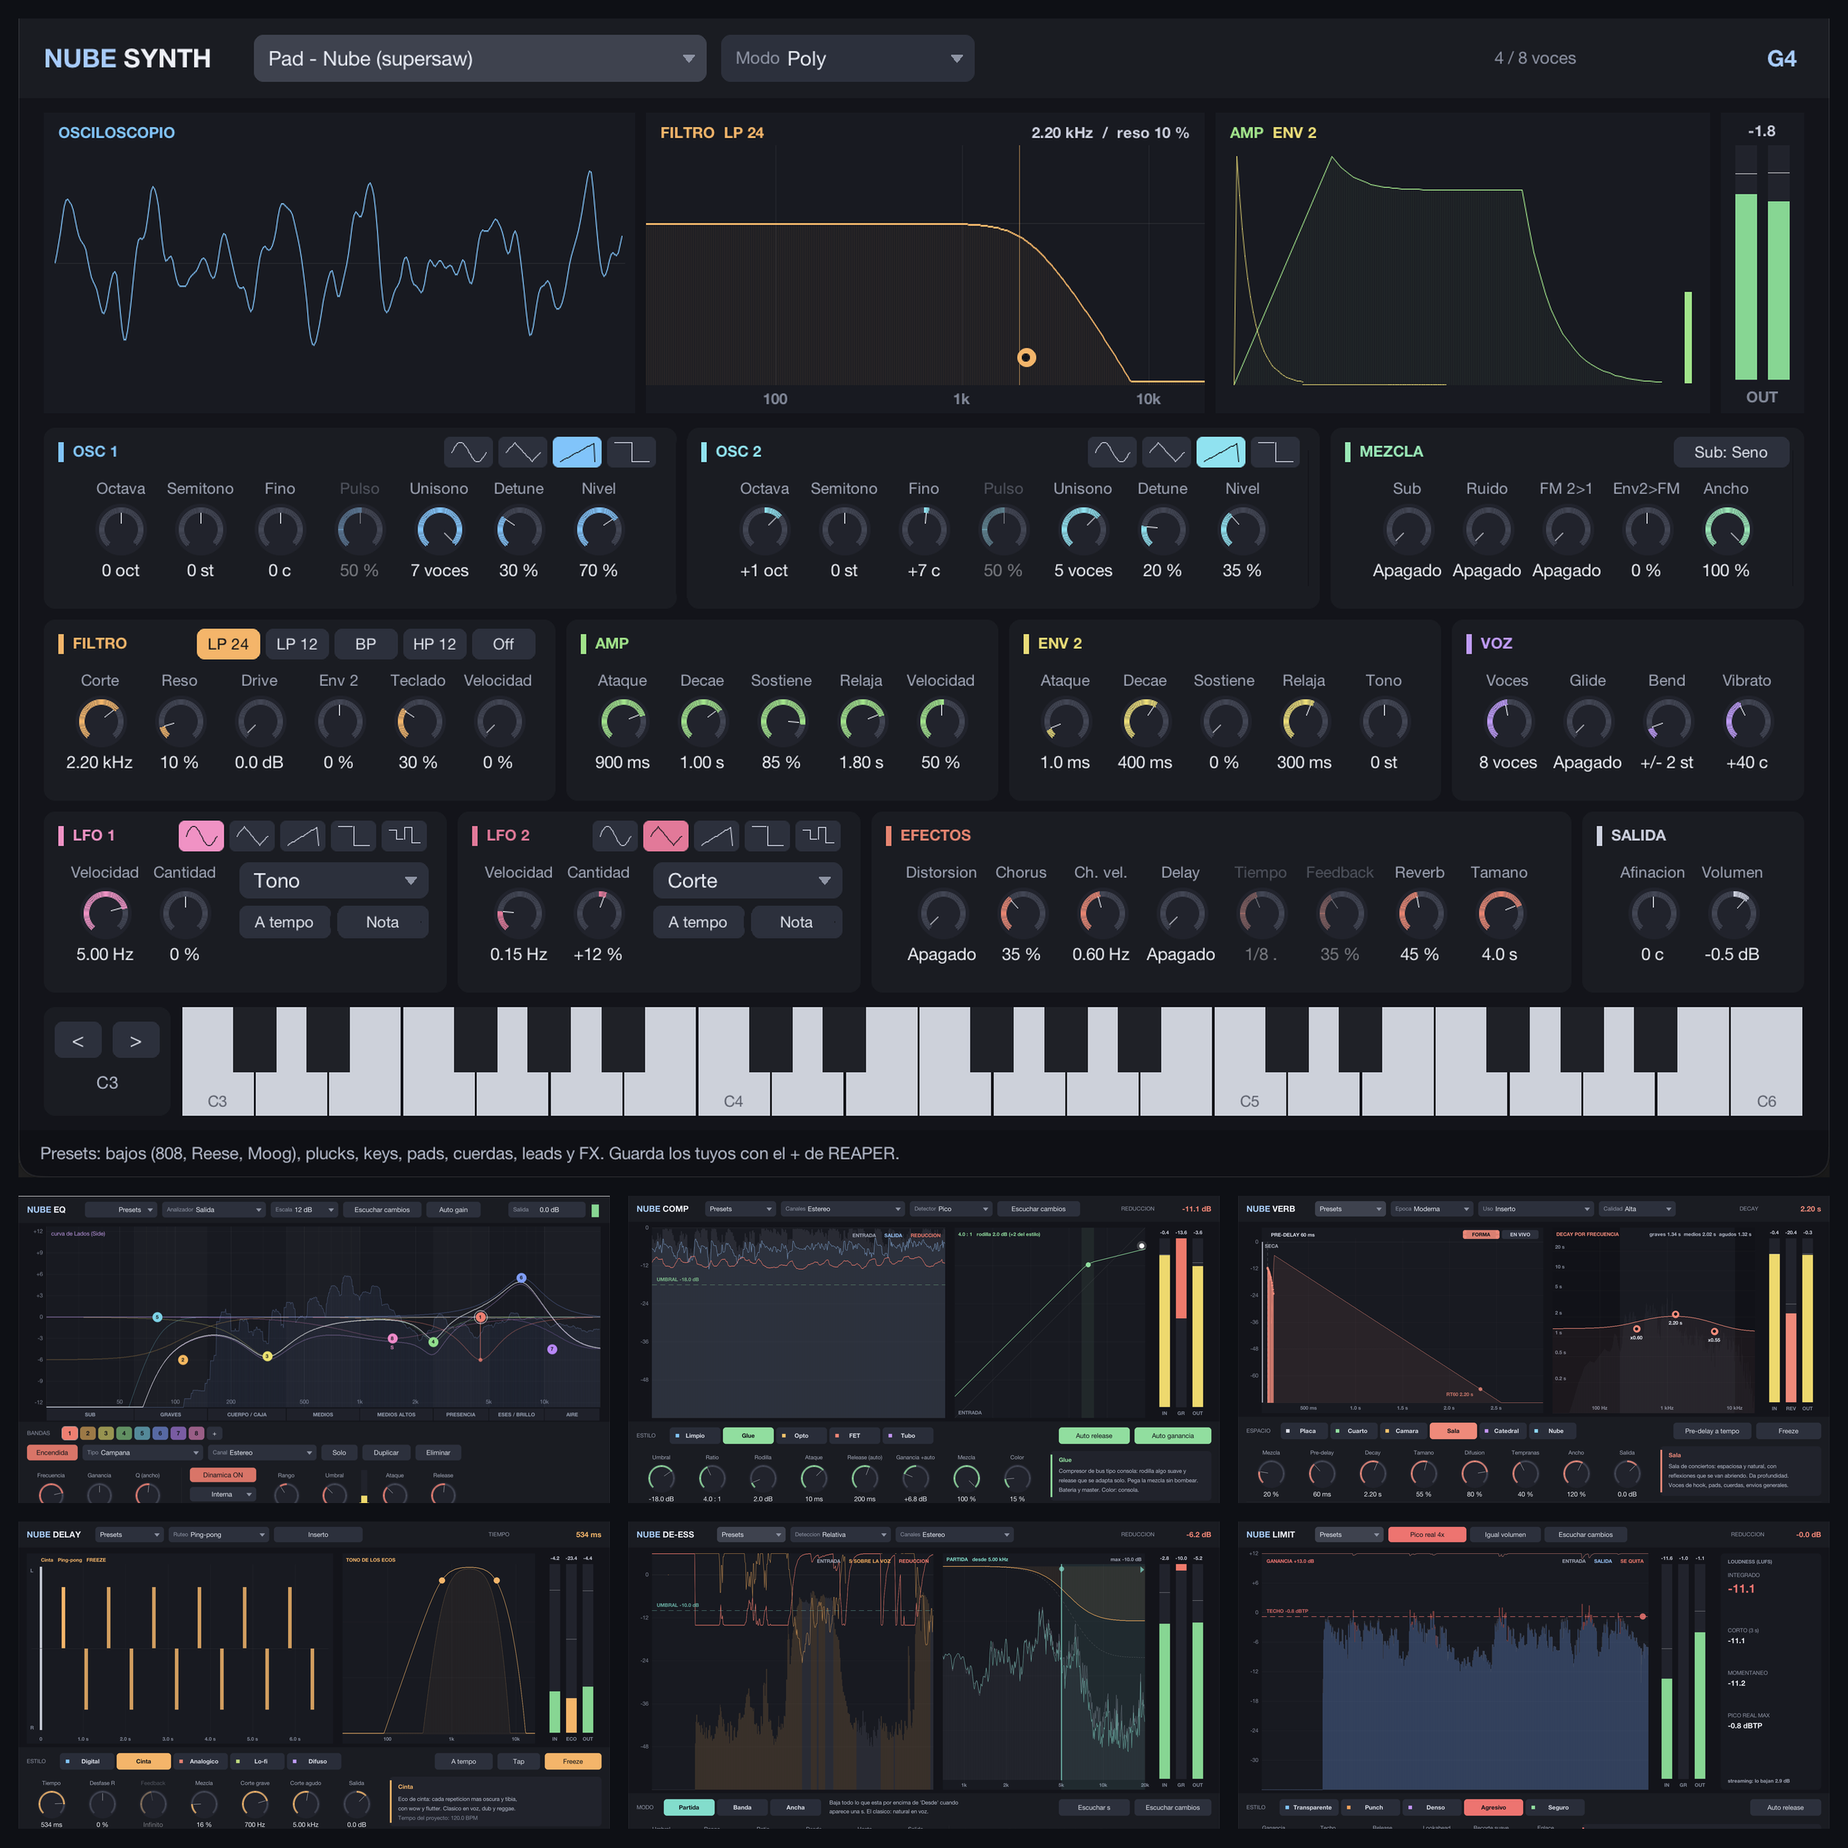
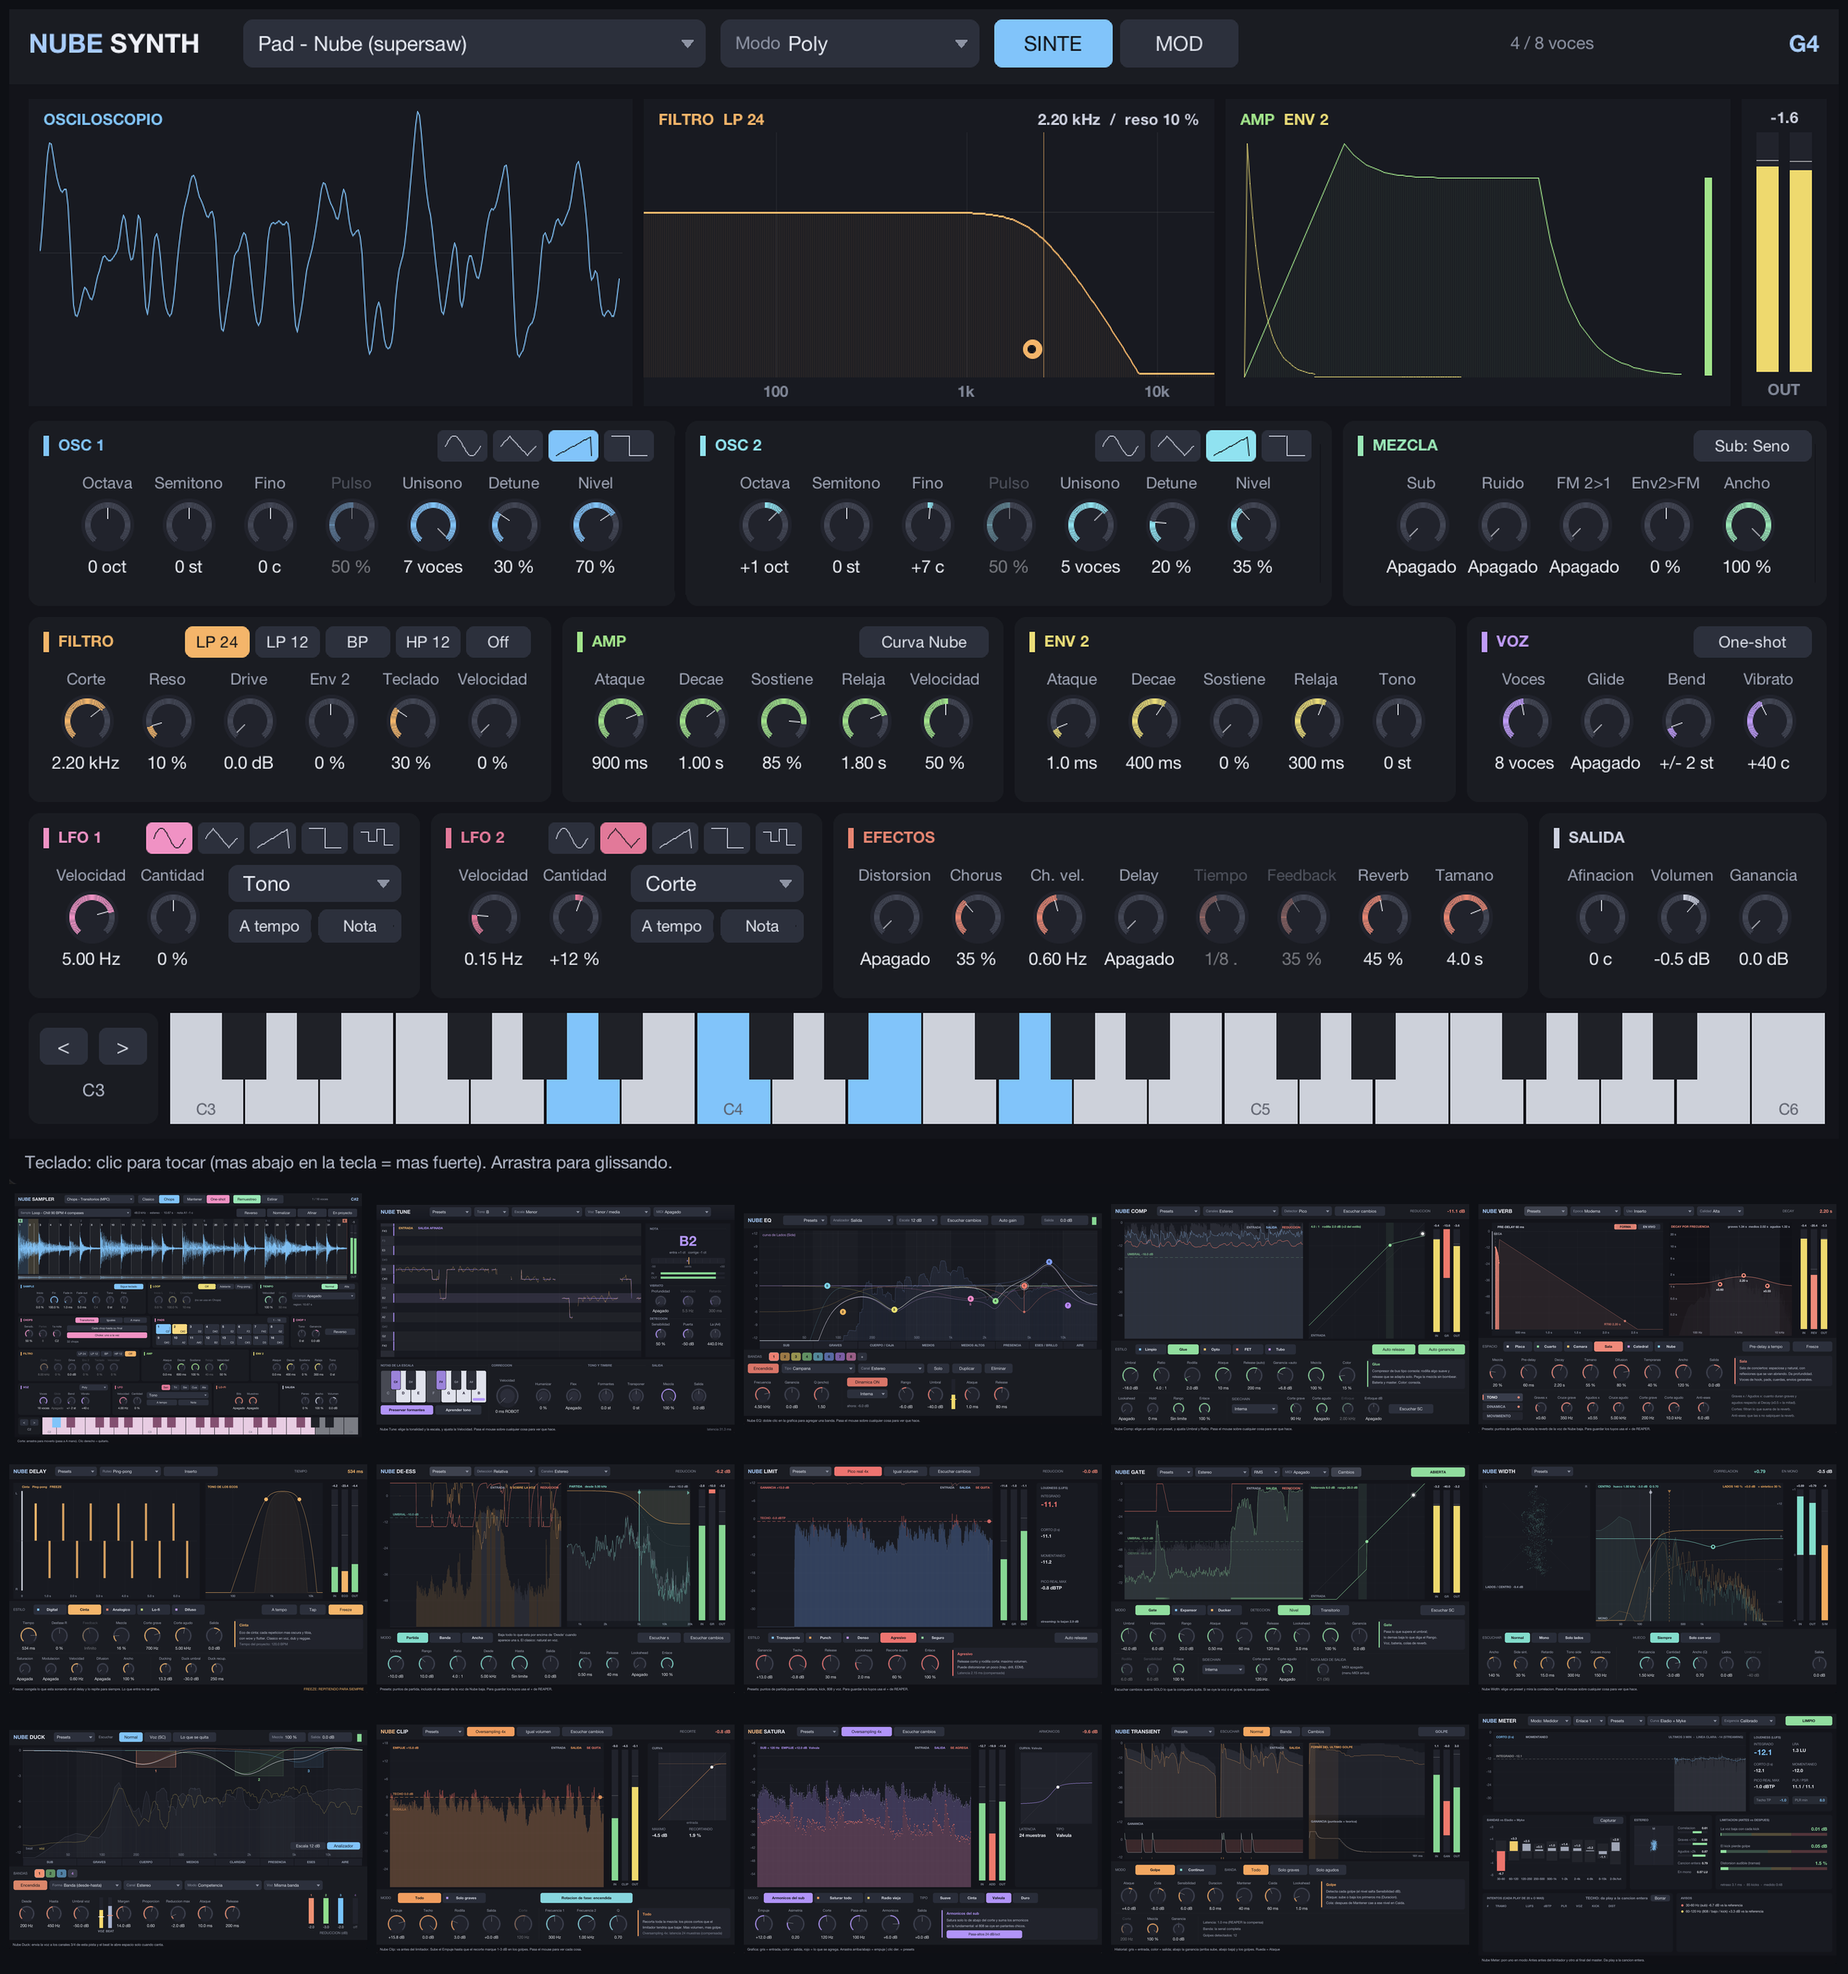
Imagen con los 16 plugins y conteo de pruebas actualizado en el README

diff --git a/README.md b/README.md
@@ -40,9 +40,10 @@ browser. The interfaces are in Spanish; hover any control to see what it does.
 I'm a mobile engineer, not a DSP engineer. I designed these with Claude Code, and since an AI can't listen, every
 feature is checked by rendering test cases inside REAPER and comparing them with the math: filter curves against the
 bilinear transform, tuning to ±0.01 Hz, envelope times, FM sidebands against Bessel functions, echo positions to the
-sample, reverb RT60, loudness against BS.1770, gate hysteresis on a slow ramp, pitch correction to ±0.1 cent and formants by LPC. About 540 renders and 710+ automated
-checks across the sixteen, plus
-mouse-driven UI tests. Each repo has its tests under `tests/`.
+sample, reverb RT60, loudness against BS.1770, gate hysteresis on a slow ramp, pitch correction to ±0.1 cent and formants by LPC,
+mono compatibility of the stereo widener, clipper curves with 4x oversampling and transient shaping that doesn't depend on level.
+About 860 renders and 1,000+ automated checks across the sixteen, plus mouse-driven UI tests. Each repo has its tests
+under `tests/`.
 
 ## License
 
